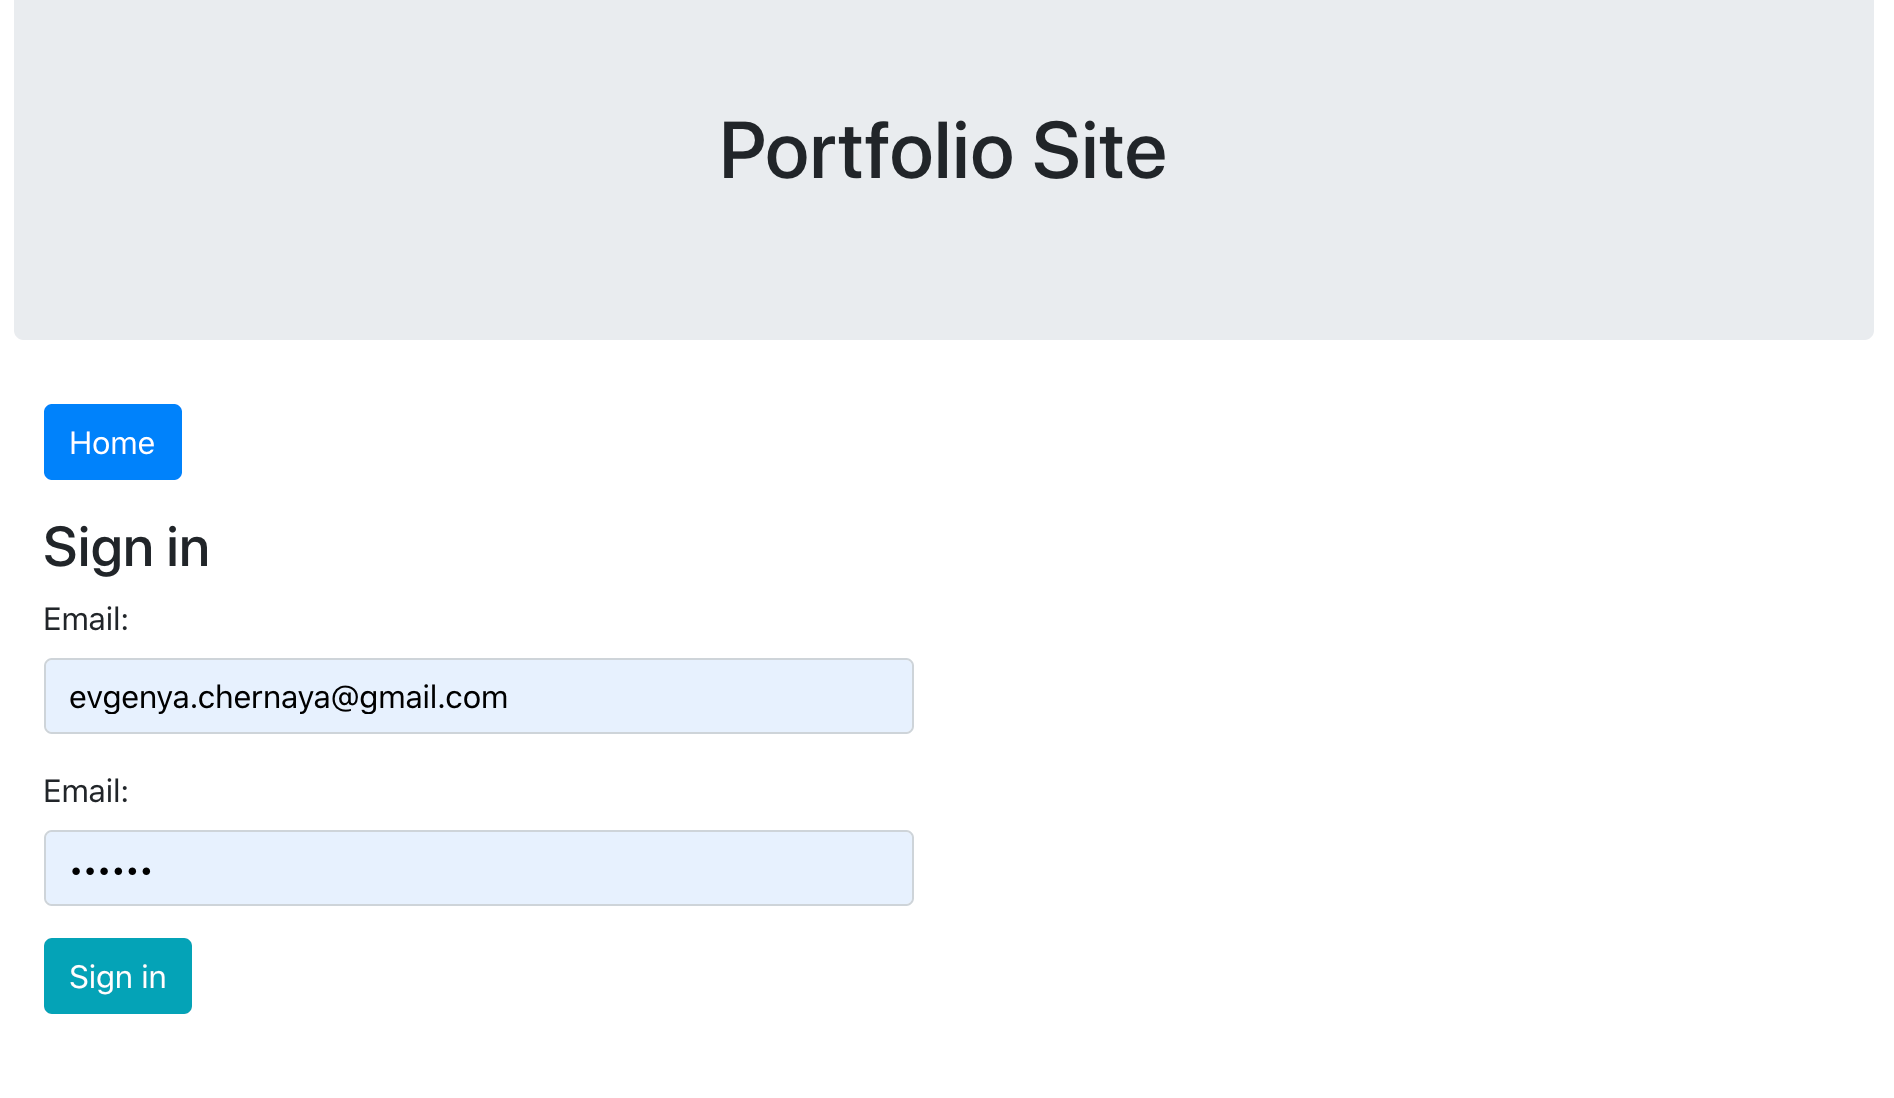
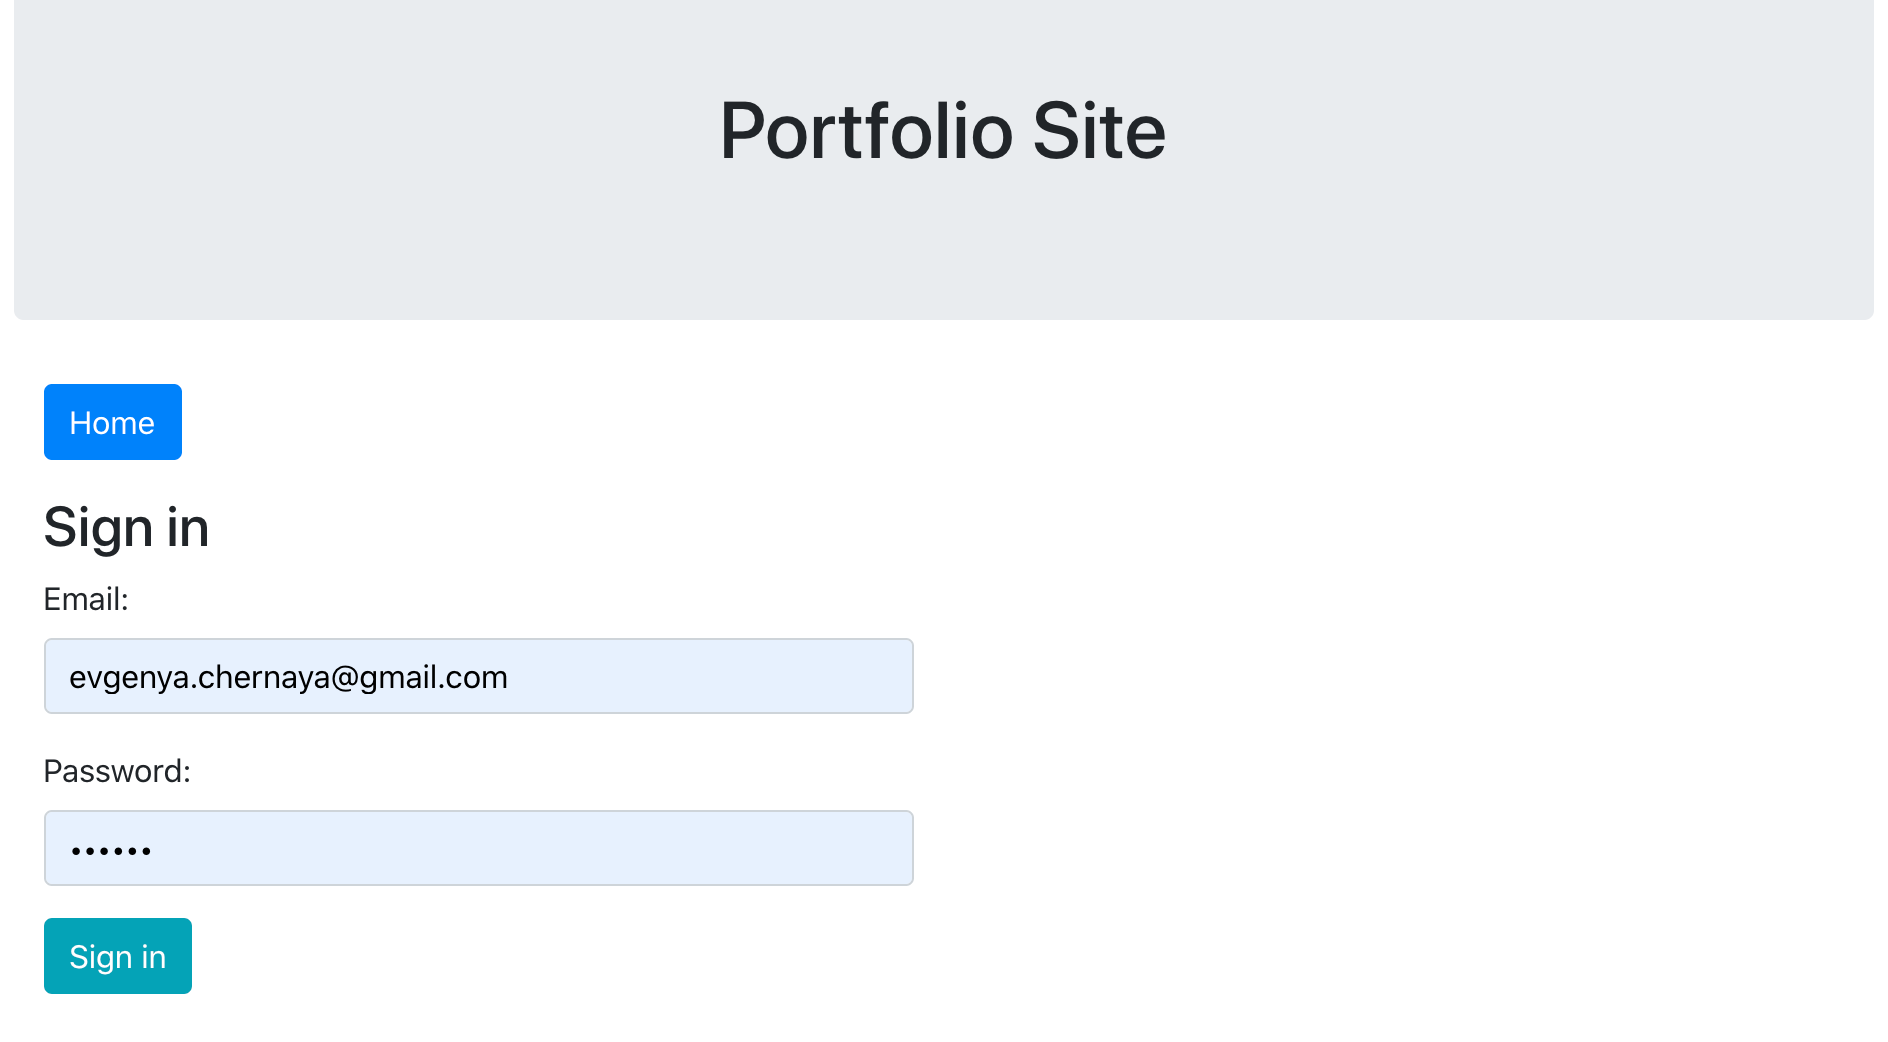
polish project

Changed region(s): [[0.0, 0.3992, 0.4688, 0.6756], [0.375, 0.0921, 0.625, 0.1843], [0.0, 0.7063, 0.125, 0.952]]

diff --git a/src/components/SignIn.js b/src/components/SignIn.js
@@ -29,7 +29,7 @@ function SignIn(props){
               />
             </div>
             <div className ="form-group">
-              <label>Email:</label>
+              <label>Password:</label>
               <input className="form-control"
                 type='password'
                 name='signinPassword'

diff --git a/src/components/Skills.js b/src/components/Skills.js
@@ -43,7 +43,6 @@ function Skills(props){
         </div>
       </React.Fragment>
     );
-  // If the skills aren't loaded yet, our fragment will return a "Loading..." message.
   } else {
     return (
       <p>No skills added</p>
